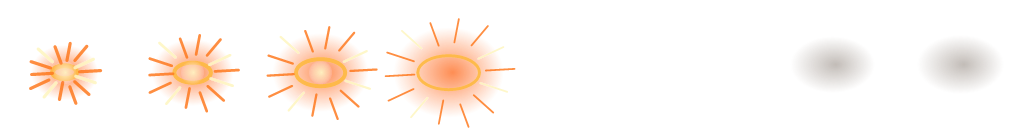
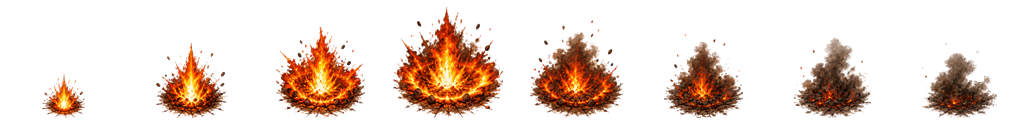
Replace fireball VFX with AI artwork

Changed region(s): [[0.125, 0.125, 0.875, 0.9375], [0.875, 0.3438, 1.0, 0.9062], [0.0312, 0.3438, 0.125, 0.9062]]

diff --git a/docs/sprite-pipeline-adoption.md b/docs/sprite-pipeline-adoption.md
@@ -21,6 +21,7 @@
 
 - 先做能防错的工具，再做大量新素材。
 - 先处理玩家高频看到的战斗反馈，再处理低频美术补全。
+- 正式 VFX、角色和怪物图集优先使用 AI 位图生成或人工绘制的美术资产；程序生成图只用于占位、测试管线和快速验证。
 - 不把 Python、FFmpeg 或图片处理逻辑放进游戏运行时。
 - 不新增第二套配置事实源；在 manifest 未接管前，检查脚本以 `game.js` 现有配置为准。
 - 每次更新 JS 或 CSS 才更新 `index.html` 版本号；只改文档和工具不改缓存版本。
@@ -31,12 +32,16 @@
 
 ## 第一条完整闭环：火球命中爆炸 VFX
 
-选择火球命中爆炸作为第一条完整闭环，因为它是高频战斗反馈，接入面小，不改角色/怪物状态机，也不改变技能伤害判定。它用于验证整条资源链路：离线生成图集、manifest 声明、脚本检查、静态预览、游戏内真实命中播放。
+选择火球命中爆炸作为第一条完整闭环，因为它是高频战斗反馈，接入面小，不改角色/怪物状态机，也不改变技能伤害判定。它用于验证整条资源链路：AI 位图生成或人工绘制、manifest 声明、脚本检查、静态预览、游戏内真实命中播放。程序生成图只保留为管线占位方案，不作为最终视觉标准。
 
 | 环节 | 落地文件 | 验收方式 |
 | --- | --- | --- |
-| 图集生成 | `tools/generate-vfx-sheet.ps1`、`vfx_sheet.png` | 生成 `1024 x 128` 透明横向图集 |
+| 图集生成 | AI 位图源图、`tools/promote-ai-vfx-sheet.ps1`、`vfx_sheet.png` | 生成 `1024 x 128` 透明横向图集 |
 | 配置事实源 | `vfx-manifest.js` | 声明 `fireballImpact` 的帧宽、帧高、帧数、FPS、pivot 和渲染尺寸 |
 | 资源检查 | `tools/validate-sprite-assets.ps1` | 同时检查主角、怪物和火球 VFX 图集合同 |
 | 静态预览 | `sprite-vfx-viewer.html` | 直接通过浏览器播放火球命中爆炸 |
 | 游戏接入 | `game.js`、`index.html` | 火球命中敌人、墙体或可破坏物时播放序列帧 VFX |
+
+## 美术资产纪律
+
+火球命中爆炸 VFX 已从程序占位图替换为 AI 生成位图资产。后续新增正式 VFX 时，默认流程是：先生成或绘制高质量位图源图，再用 `tools/promote-ai-vfx-sheet.ps1` 晋升为游戏图集，最后通过 `tools/validate-sprite-assets.ps1` 和预览器验收。不要把程序生成图作为正式美术提交。

diff --git a/CHANGELOG.md b/CHANGELOG.md
@@ -6,6 +6,7 @@
 - 新增 Sprite Pipeline 借鉴落地路线，明确资源管线、预览、校验、VFX 和 Boss 动作的分阶段收益。
 - 新增 sprite 资源合同检查脚本，用于校验主角和怪物图集尺寸与 `game.js` 配置一致。
 - 新增火球命中爆炸 VFX 图集、manifest、静态预览器和游戏内序列帧播放闭环。
+- 将火球命中爆炸 VFX 替换为 AI 生成位图资产，并新增 AI 图集晋升脚本。
 
 ## v7.09 - 2026-05-01
 
